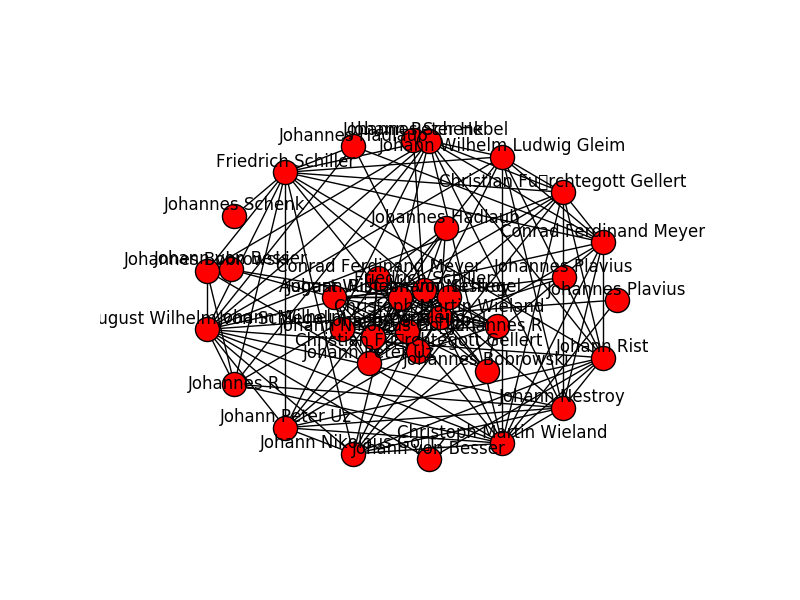
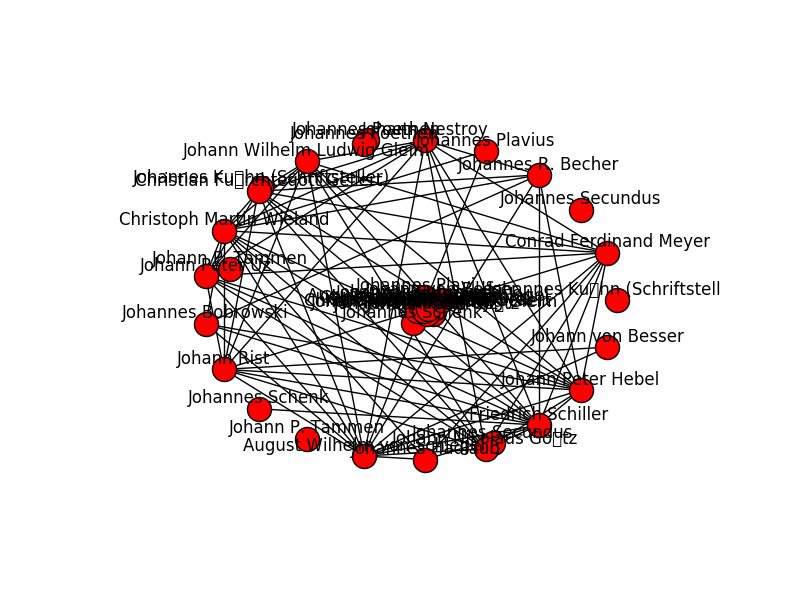
got rid of problem with filenames which have a . within their basename; added function extractBasename

Changed region(s): [[0.125, 0.18, 0.9062, 0.78]]

diff --git a/readCSVfromScratch.py b/readCSVfromScratch.py
@@ -76,6 +76,11 @@ def compareNECounter(nedict1,nedict2):
     print("this is the weight: " + str(weight))
     return weight
 
+def extractBasename(filePath):
+    newItem = os.path.basename(filePath)
+    newerItem = os.path.splitext(newItem)
+    newerNewerItem = os.path.splitext(newerItem[0])
+    return newerNewerItem[0]
 
 def createGraph():
     #regex =
@@ -84,10 +89,17 @@ def createGraph():
     
     #print("gimme dad fileList")
     #print(fileList)
-    
-    #maybe redundant since according to http://snap.stanford.edu/class/cs224w-2012/nx_tutorial.pdf
-    #adding edges without nodes results in nx adding nodes automatically
-    #G.add_nodes_from(fileList)#is it possible to add a list of strings as nodes?
+    for item in fileList:
+        G.add_node(extractBasename(item))
+        #itemList = item.split('/')
+        #itemList = re.search('(.+?)(\.txt\.csv)', itemList[-1])
+        #itemList= itemList[-1].split('.')
+        #for item in itemList:
+            #print (item)
+        #nodeName = itemList[0]
+        #print(nodeName)
+        #nodeList.append(nodeName)
+        #G.add_node(nodeName)
     for a,b in itertools.combinations(fileList,2):
         #print (a)
         #astr = re.search("Christoph",a)#depends on directory... not sure how to implement
@@ -96,22 +108,24 @@ def createGraph():
         #bstr = bstr.group(0)
         
         #so ugly
-        aList = a.split('/')
-        bList = b.split('/')
-        aList = aList[-1].split('.')
-        bList = bList[-1].split('.')
-        aName = aList[0]
-        bName = bList[0]
-        print(aName +'  |  ' + bName)
+        #aList = a.split('/')
+        #bList = b.split('/')
+        #aList = aList[-1].split('.')
+        #bList = bList[-1].split('.')
+        #aName = aList[0]
+        #bName = bList[0]
+        #print(aName +'  |  ' + bName)
         #aName = aList[-1]
         #bName = bList[-1]
         
 
 
         weight = compareNECounter(neCount(a), neCount(b))
+
         if weight > 10:
-            G.add_edge(aName, bName, {'weight': weight})
+            G.add_edge(extractBasename(a), extractBasename(b), {'weight': weight})
             #create edges a->b (weight)
+
     
     print ("Number of nodes:", G.number_of_nodes(), "  Number of edges: ", G.number_of_edges())
     return G
